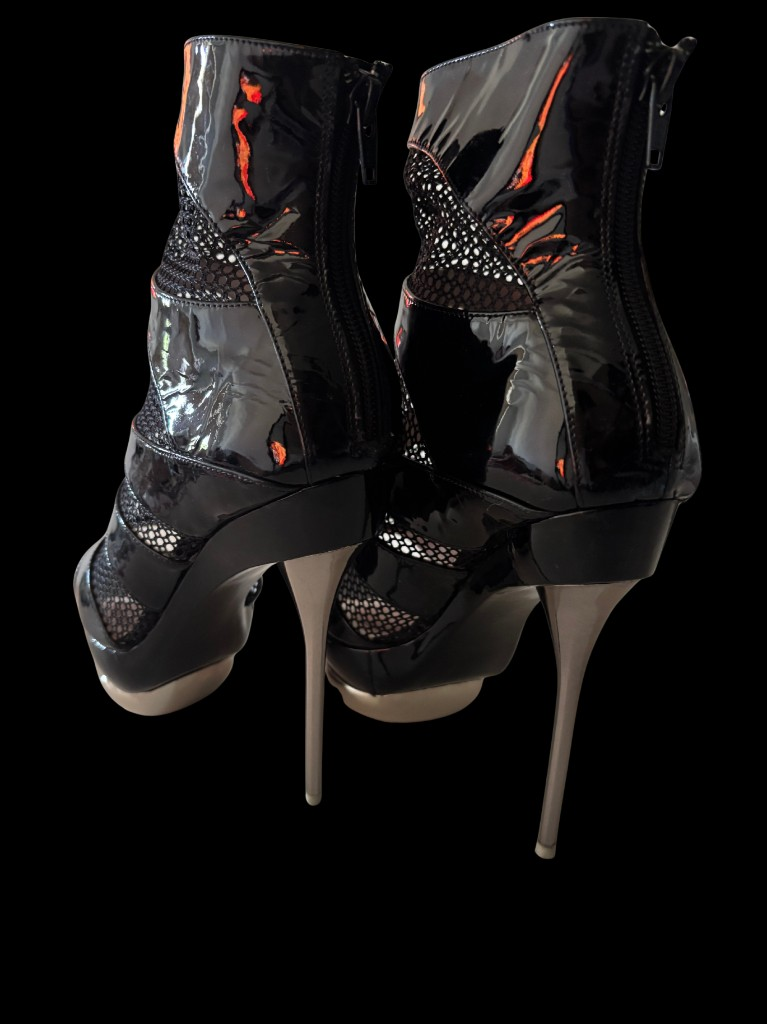
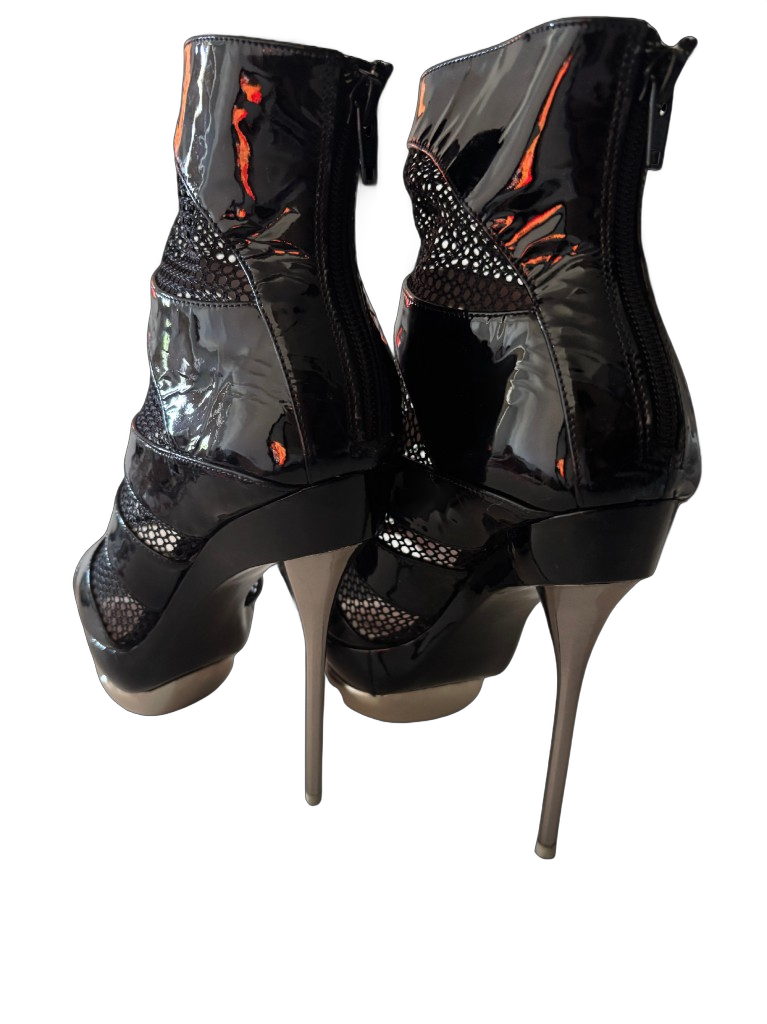
Give the Emilio Pucci boots a white background and lead with the side shot.

diff --git a/figma-vintage-clothing/src/app/components/HomePage.tsx b/figma-vintage-clothing/src/app/components/HomePage.tsx
@@ -40,7 +40,6 @@ import cavalliTribalJeansLabelImg from "../../imports/roberto-cavalli-tribal-pan
 import emilioPucciBootsPairImg from "../../imports/emilio-pucci-platform-boots-gallery/01-pair.png";
 import emilioPucciBootsSideImg from "../../imports/emilio-pucci-platform-boots-gallery/02-side.png";
 import emilioPucciBootsProfileImg from "../../imports/emilio-pucci-platform-boots-gallery/03-profile.png";
-import emilioPucciBootsAngleImg from "../../imports/emilio-pucci-platform-boots-gallery/04-angle.png";
 import emilioPucciBootsSolesImg from "../../imports/emilio-pucci-platform-boots-gallery/05-soles.png";
 import herveLegerDressFrontImg from "../../imports/herve-leger-bandage-dress-gallery/01-front.png";
 import cavalliAnimalKnitDressImg from "../../imports/roberto-cavalli-animal-print-knit-dress-gallery/01-front.png";
@@ -188,15 +187,14 @@ export const ALL_PRODUCTS: Product[] = [
     origin: "Italy",
     material: "Patent leather & mesh",
     details: ["Peep-toe platform", "Mesh cage panels", "Silver-tone stiletto heel", "Rear zip"],
-    image: emilioPucciBootsAngleImg,
+    image: emilioPucciBootsSideImg,
     images: [
-      emilioPucciBootsAngleImg,
-      emilioPucciBootsPairImg,
       emilioPucciBootsSideImg,
+      emilioPucciBootsPairImg,
       emilioPucciBootsProfileImg,
       emilioPucciBootsSolesImg,
     ],
-    imageBackground: "#000000",
+    imageBackground: "#FFFFFF",
     sold: true,
   },
   {
